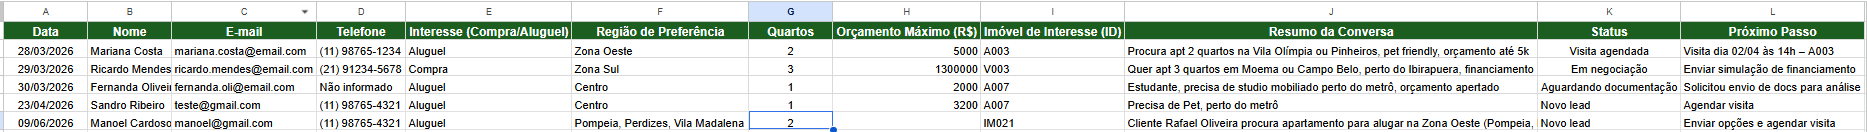
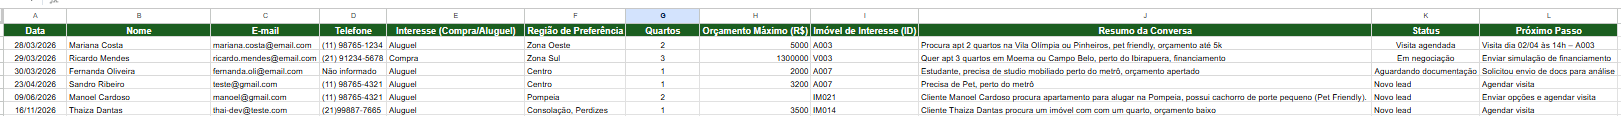
atualização do README

diff --git a/README.md b/README.md
@@ -246,6 +246,7 @@ O system prompt é organizado em blocos, para deixar o comportamento previsível
 **E-mail enviado pelo cliente:**
 <!-- 📸 PRINT: e--mail enviado pelo cliente e resposta da agente -->
 ![Cenário 1 - e-mail recebido](images/teste1.png)
+
 ![Cenário 1 - agente consultando o catálogo](images/teste2.png)
 
 <!-- 📸 PRINT: Mesmo cliente responde na mesma thread, mudando o orçamento. O agente usa a memória da conversa e **atualiza** a linha existente, sem criar uma nova. -->
@@ -253,6 +254,7 @@ O system prompt é organizado em blocos, para deixar o comportamento previsível
 
 <!-- 📸 PRINT: resposta do Ted recebida pelo cliente -->
 ![Cenário 1 - resposta enviada](images/teste4.png)
+
 ![Cenário 1 - resposta enviada](images/teste5.png)
 
 
@@ -264,43 +266,35 @@ O system prompt é organizado em blocos, para deixar o comportamento previsível
 
 Mesmo cliente responde na mesma thread, mudando o orçamento. O agente usa a memória da conversa e **atualiza** a linha existente, sem criar uma nova.
 
-```
-Gostei da segunda opção! Posso subir um pouco o orçamento, até R$ 4.500.
-Como funciona para agendar uma visita?
-```
+<!-- 📸 PRINT: primerio e-mail do cliente com resposta do Ted -->
+![Cenário 2 - e-mail de follow-up](images/email-atualizacao.png)
 
-<!-- 📸 PRINT: segundo e-mail do cliente na mesma thread -->
-![Cenário 2 - e-mail de follow-up](docs/images/ex2-01-email-followup.png)
+<!-- 📸 PRINT: salvando as informações na planilha de leads -->
+![Cenário 2 - lead atualizado](images/atualizacao-lead1.png)
 
-<!-- 📸 PRINT: resposta do Ted sugerindo agendamento via WhatsApp -->
-![Cenário 2 - resposta do agente](docs/images/ex2-02-resposta-ted.png)
+<!-- 📸 PRINT: segundo e-mail do cliente na mesma thread e a resposta do Ted sugerindo agendamento via WhatsApp  -->
+![Cenário 2 - e-mail de follow-up](images/email-atualizacao2.png)
 
-<!-- 📸 PRINT: planilha de leads mostrando a MESMA linha atualizada (orçamento e próximo passo) -->
-![Cenário 2 - lead atualizado](docs/images/ex2-03-lead-atualizado.png)
+<!-- 📸 PRINT: planilha de leads mostrando a MESMA linha atualizada -->
+![Cenário 2 - lead atualizado](images/atualizacao-lead2.png)
 
 ---
 
 ### Cenário 3: pergunta genérica (sem registro de lead)
 
-```
-Assunto: Dúvida
-
-Qual o horário de atendimento de vocês?
-```
-
-O agente responde a dúvida, mas **não** registra lead, já que não há interesse real em um imóvel.
-
 <!-- 📸 PRINT: resposta do agente e planilha de leads sem nova linha -->
-![Cenário 3 - sem registro de lead](docs/images/ex3-01-sem-lead.png)
+![Cenário 3 - sem registro de lead](images/pergunta-generica.png)
 
 ---
 
 ### Cenário 4: pedido fora do escopo
 
-Quando o cliente pergunta algo sem relação com imóveis, o agente redireciona para o foco do negócio.
+Quando o cliente pergunta algo sem relação com imóveis, ou com dados que não correspondem com a empresa em questão, o agente orienta e redireciona para o foco do negócio.
 
 <!-- 📸 PRINT: e-mail fora de escopo + resposta redirecionando -->
-![Cenário 4 - fora do escopo](docs/images/ex4-01-fora-do-escopo.png)
+![Cenário 4 - fora do escopo](images/fora-do-escopo1.png)
+
+![Cenário 4 - fora do escopo](images/fora-do-escopo2.png)
 
 ---
 
@@ -338,15 +332,15 @@ Quando o cliente pergunta algo sem relação com imóveis, o agente redireciona 
 
 ## ⚠ Limitações e próximos passos
 
-Este projeto é uma **simulação** de portfólio. Alguns pontos para evoluir antes de usar em produção:
+Este projeto é uma **simulação desenvolvida para fins de portfólio**. Embora o fluxo execute as funcionalidades propostas, existem melhorias que podem torná-lo mais robusto e adequado para um ambiente de produção.
 
-- [ ] **Filtro no Gmail Trigger**: hoje não há filtros, então o fluxo reage a qualquer e-mail recebido. Filtrar por rótulo, remetente ou assunto evitaria respostas a newsletters e spam.
-- [ ] **Revisão humana**: incluir uma etapa de aprovação (ou rascunho em vez de envio direto) para casos sensíveis.
-- [ ] **Tratamento de erros**: adicionar um fluxo de erro (*Error Trigger*) para avisar quando uma execução falhar.
-- [ ] **Campo E-mail do lead**: o valor vem do cabeçalho `from`, que pode incluir o nome junto com o endereço. Normalizar para guardar só o endereço deixaria a chave de busca mais confiável.
-- [ ] **Agendamento automático**: integrar com Google Calendar para marcar visitas direto pelo e-mail.
-- [ ] **Notificação para corretores**: avisar um humano (Slack/WhatsApp) quando um lead quente for registrado.
-- [ ] **Escalonamento para humano**: detectar reclamações ou casos complexos e encaminhar para atendimento humano.
+- [ ] **Filtros no Gmail Trigger:** implementar filtros por remetente, assunto ou marcador para evitar o processamento de mensagens irrelevantes, como newsletters e spam.
+- [ ] **Revisão humana:** adicionar uma etapa de aprovação antes do envio de respostas, especialmente em situações que exigem atenção ou validação.
+- [ ] **Tratamento de erros:** implementar um fluxo com *Error Trigger* para identificar falhas de execução e notificar os responsáveis.
+- [ ] **Normalização do e-mail:** extrair somente o endereço de e-mail do cabeçalho `From`, garantindo maior consistência na identificação e busca de leads.
+- [ ] **Agendamento automático:** integrar com o Google Calendar para facilitar o agendamento de visitas a partir das conversas.
+- [ ] **Notificações para corretores:** implementar notificações via Slack ou WhatsApp quando um lead com alto potencial for identificado.
+- [ ] **Escalonamento para atendimento humano:** identificar reclamações, solicitações complexas ou situações que exijam intervenção humana e encaminhá-las à equipe responsável.
 
 ---
 
